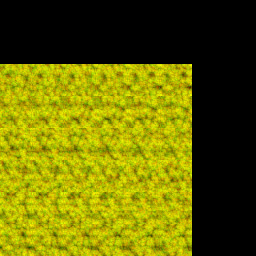
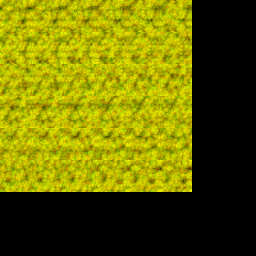
website

diff --git a/projects/clouds/clouds.js b/projects/clouds/clouds.js
@@ -63,7 +63,7 @@ if(mobile){
   if(!mobile){
     customContainer.appendChild(gui.domElement);
   }
-  gui.add(this, 'time').min(0.0).max(6.283).step(0.0001).listen().onChange(function(value){gl.uniform1f(timeHandle, time);});
+  gui.add(this, 'time').min(0.0).max(600.283).step(0.0001).listen().onChange(function(value){gl.uniform1f(timeHandle, time);});
   gui.add(this, 'thickness').min(0.0).max(1.0).step(0.01).onChange(function(value){gl.uniform1f(thicknessHandle, thickness);});
   gui.add(this, 'power').min(0.0).max(1000.0).step(5.0).onChange(function(value){gl.uniform1f(powerHandle, power);});
   gui.add(this, 'detailSize').min(0.0).max(0.01).step(0.000001).onChange(function(value){gl.uniform1f(detailSizeHandle, detailSize);});
@@ -171,28 +171,30 @@ if(mobile){
 */
   float getCloudDetail(vec3 pos){
 
+    //Change from Y being height to Z being height
     vec3 p = vec3(pos.x, pos.z, pos.y);
+
     //Pixel coordinates of point in the 3D data
-    vec3 coord = vec3(mod(p.xy, 34.0), mod(p.z, 36.0));
+    vec3 coord = vec3(mod(p.xy, 32.0), mod(p.z, 36.0));
     float f = fract(coord.z);  
     float level = floor(coord.z);
     float tileY = floor(level/6.0); 
     float tileX = level - tileY * 6.0; 
-    vec2 offset = vec2(tileX, tileY) * 34.0;
+    vec2 offset = 32.0 * vec2(tileX, tileY) + 2.0 * vec2(tileX, tileY) + 1.0;
     vec2 pixel = coord.xy + offset;
     //pixel.xy *= 10.0;
-    vec2 data0 = texture2D(cloudDetailTexture, pixel/204.0).xy;
-/*
-    coord.z = mod(coord.z + 1.0, 36.0);
+    float data0 = texture2D(cloudDetailTexture, pixel/204.0).x;
+
+    coord.z = mod(p.z + 1.0, 36.0);
     level = floor(coord.z);
     tileY = floor(level/6.0); 
     tileX = level - tileY * 6.0; 
-    offset = vec2(tileX, tileY) * 34.0;
+    offset = 32.0 * vec2(tileX, tileY) + 2.0 * vec2(tileX, tileY) + 1.0;
     pixel = coord.xy + offset;
     //pixel.xy *= 10.0;
     float data1 = texture2D(cloudDetailTexture, pixel/204.0).x;
-*/
-    return mix(data0.x, data0.y, f);
+
+    return mix(data0, data0, 1.0-f);
   }
 
   float noise( in vec2 p ) {
@@ -547,6 +549,13 @@ if(mobile){
     vec3 col = 1.0-exp(-color);
     col = pow(color, vec3(0.4545));
 
+    vec3 p = vec3(gl_FragCoord.xy - 0.5, time);
+
+    col = vec3(getCloudDetail(p));
+    col = vec3(texture2D(cloudDetailTexture, p.xy * detailSize).xy, 0.0);
+    if(p.y > 100.5){
+      col = vec3(1);
+    }
     gl_FragColor = vec4(col, 1.0);
   }
   `;
